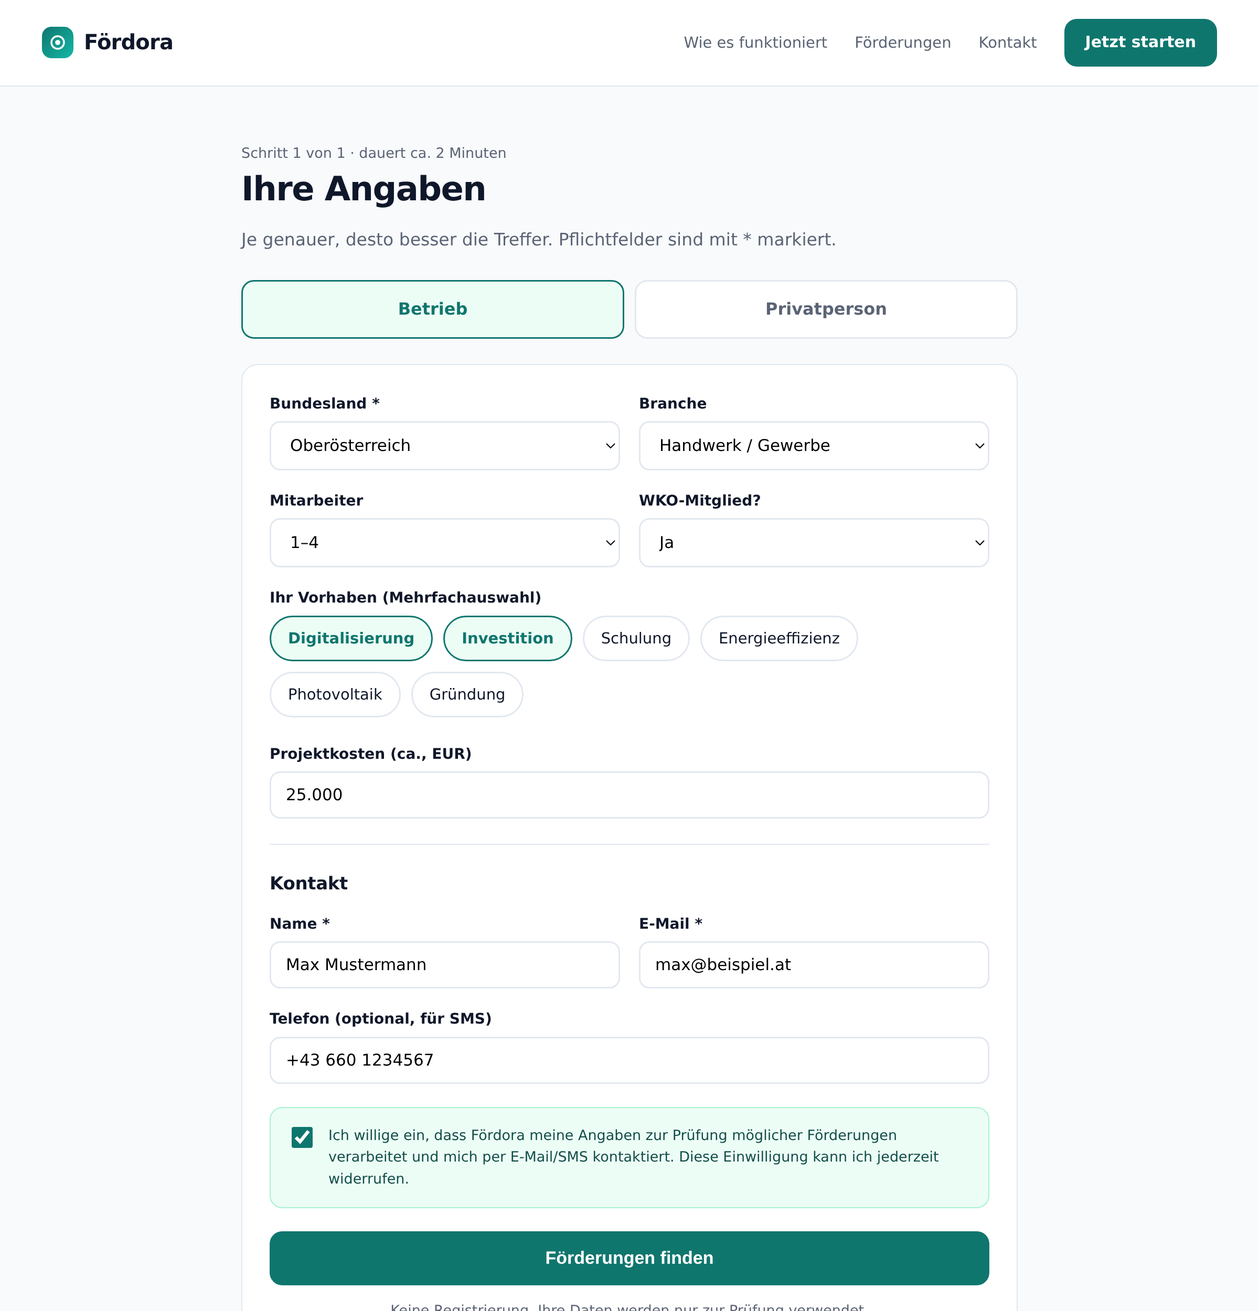
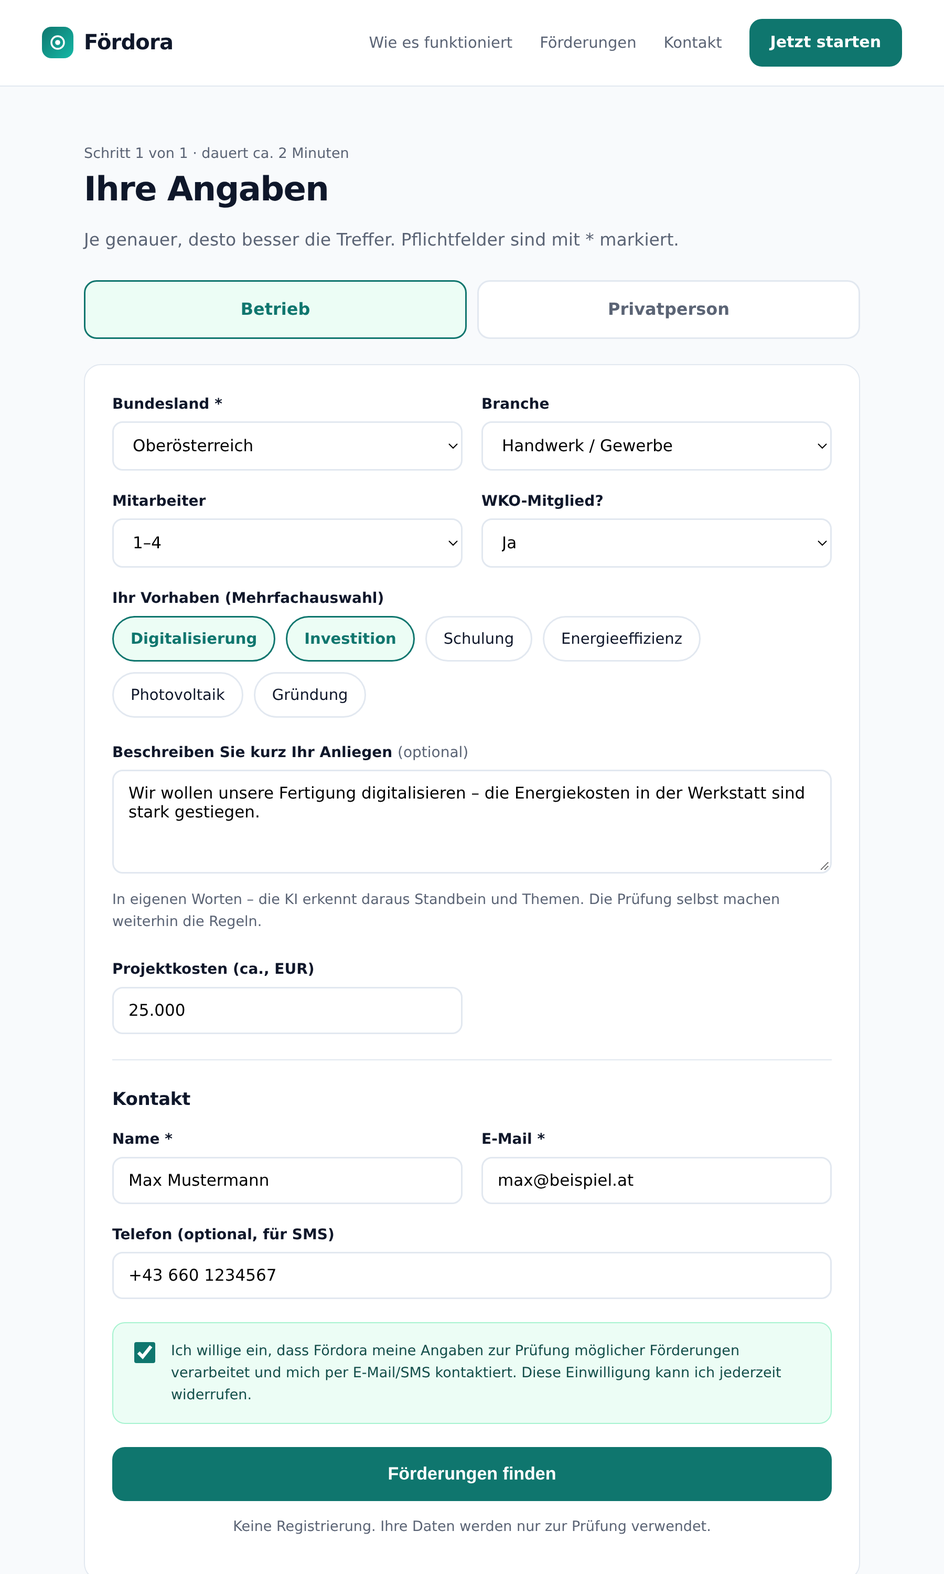
docs(design): Mockups fuer Standbein-/Thema-Achse
- build_mockup.py: Freitext-Feld (Anliegen) + Tab-Beispieltexte,
  textarea-Styling, Generator fuer das 3. Standbein "Sozial"
- mockup-formular.html/png: Anliegen-Textfeld + KI-Hinweis
- mockup-standbein.html/png: Entwurf thema-Achse (Badges statt eigener Spalte)
- mockup-start/danke.html: textarea-Styling nachgezogen

Reine Design-Artefakte (docs/design), keine Laufzeit-Auswirkung.

diff --git a/docs/design/mockup-standbein.html b/docs/design/mockup-standbein.html
@@ -1,4 +1,4 @@
-<!doctype html><meta charset="utf-8"><title>Fördora — Startseite</title><style>
+<!doctype html><meta charset="utf-8"><title>Fördora — Standbeine & Thema-Achse</title><style>
 :root{--p:#0f766e;--p2:#14b8a6;--p3:#ecfdf5;--ink:#0f172a;--mut:#5b6475;
       --bg:#f8fafc;--card:#fff;--line:#e2e8f0;--warn:#b45309}
 *{box-sizing:border-box}
@@ -70,16 +70,26 @@ input:focus,select:focus,textarea:focus{outline:0;border-color:var(--p2)}
 </style><header><div class="logo"><span class="mark"><svg width="17" height="17" viewBox="0 0 24 24" fill="none" stroke="#fff" stroke-width="2.4" stroke-linecap="round"><circle cx="12" cy="12" r="8.5"/><circle cx="12" cy="12" r="3.4" fill="#fff" stroke="none"/></svg></span>Fördora</div><nav>
 <a href="#">Wie es funktioniert</a><a href="#">Förderungen</a><a href="#">Kontakt</a>
 <a class="btn btn-p" style="padding:11px 20px;font-size:15px" href="#">Jetzt starten</a>
-</nav></header>
+</nav></header><style>
+.badge{display:inline-block;border:1px solid #a7f3d0;background:var(--p3);color:var(--p);
+  border-radius:999px;padding:3px 11px;font-size:12.5px;font-weight:650;margin-left:6px}
+.badge.neu{border-color:#fcd34d;background:#fffbeb;color:var(--warn)}
+.door{display:flex;gap:15px;align-items:flex-start}
+.door .ico{width:46px;height:46px;border-radius:13px;font-size:19px;display:grid;place-items:center;
+  background:var(--p3);color:var(--p);font-weight:700}
+.card.hl{border-color:var(--p);box-shadow:0 8px 26px rgba(15,118,110,.12)}
+.filters{display:flex;gap:10px;flex-wrap:wrap;margin:6px 0 22px}
+</style>
 <main class="wrap">
-  <section class="hero">
+  <section class="hero" style="padding-bottom:40px">
     <div class="eyebrow">✦ KI-gestützt · nur amtliche Quellen</div>
-    <h1>Finden Sie heraus, welche<br>Förderungen Ihnen zustehen.</h1>
-    <p class="lead">Fördora gleicht Ihr Profil automatisch mit allen Förderprogrammen
-       für Österreich ab – und meldet sich, sobald eine Frist naht.</p>
+    <h1>Förderungen und Unterstützung,<br>die zu Ihnen passen.</h1>
+    <p class="lead">Fördora gleicht Ihr Profil automatisch mit Förderungen und
+       Sozialangeboten für Österreich ab – und meldet sich, sobald eine Frist naht.</p>
     <div class="cta">
       <a class="btn btn-p" href="#">Für Betriebe</a>
       <a class="btn btn-o" href="#">Für Privatpersonen</a>
+      <a class="btn btn-o" href="#">Sozial &amp; Alltag</a>
     </div>
     <div class="trust">
       <span><b>✓</b> Kostenlos &amp; unverbindlich</span>
@@ -87,61 +97,62 @@ input:focus,select:focus,textarea:focus{outline:0;border-color:var(--p2)}
       <span><b>✓</b> Ohne Registrierung</span>
     </div>
   </section>
-  <section class="steps">
-    <div class="card"><div class="step-n">1</div><h2 style="font-size:19px">Angaben machen</h2>
-      <p class="small">In 2 Minuten: ein paar Eckdaten zu Ihrem Vorhaben. Kein Papierkram.</p></div>
-    <div class="card"><div class="step-n">2</div><h2 style="font-size:19px">Automatisch abgleichen</h2>
-      <p class="small">Wir prüfen Ihren Fall gegen alle aktuellen Programme – belegt aus den Originalquellen.</p></div>
-    <div class="card"><div class="step-n">3</div><h2 style="font-size:19px">Treffer erhalten</h2>
-      <p class="small">Sie bekommen die passenden Förderungen per E-Mail – und einen Hinweis, wenn eine Frist läuft.</p></div>
+
+  <h2 class="sec-title" style="margin-top:34px">Drei Standbeine, ein Radar</h2>
+  <p class="sec-sub">Jeder Bereich funktioniert nach demselben Prinzip – nur die
+     passenden Angebote unterscheiden sich.</p>
+  <section class="steps" style="padding-bottom:34px">
+    <div class="card"><div class="door"><div class="ico"><svg width="22" height="22" viewBox="0 0 24 24" fill="none" stroke="#0f766e" stroke-width="2" stroke-linecap="round" stroke-linejoin="round"><path d="M3 21h18M5 21V7l7-4 7 4v14"/><path d="M9 21v-6h6v6"/></svg></div><div>
+      <h2 style="font-size:19px">Betrieb &amp; Förderung</h2>
+      <p class="small">Digitalisierung, Investitionen, Energie, Gründung –
+      Wirtschaftsförderung für Unternehmen.</p></div></div></div>
+    <div class="card"><div class="door"><div class="ico"><svg width="22" height="22" viewBox="0 0 24 24" fill="none" stroke="#0f766e" stroke-width="2" stroke-linecap="round" stroke-linejoin="round"><path d="M3 11l9-8 9 8"/><path d="M5 10v11h14V10"/></svg></div><div>
+      <h2 style="font-size:19px">Privat &amp; Zuhause</h2>
+      <p class="small">Sanieren, Heizen, Photovoltaik, Handwerkerbonus –
+      Förderungen rund um Wohnen.</p></div></div></div>
+    <div class="card hl"><div class="door"><div class="ico"><svg width="22" height="22" viewBox="0 0 24 24" fill="none" stroke="#0f766e" stroke-width="2" stroke-linecap="round" stroke-linejoin="round"><circle cx="9" cy="8" r="3"/><path d="M2 21v-1a5 5 0 0 1 5-5h4a5 5 0 0 1 5 5v1"/><path d="M17 8h4M19 6v4"/></svg></div><div>
+      <h2 style="font-size:19px">Sozial &amp; Alltag <span class="badge neu">neu</span></h2>
+      <p class="small">Heizkostenzuschuss, Wohnbeihilfe, Pflege &amp;
+      Barrierefreiheit – Unterstützung für Menschen.</p></div></div></div>
   </section>
 
-  <h2 class="sec-title">Das macht Fördora anders</h2>
-  <p class="sec-sub">Andere Seiten sind Kataloge zum Selbst-Durchsuchen.
-     Fördora arbeitet für Sie – automatisch und nachvollziehbar.</p>
-  <section class="usp">
-    <div class="card"><div class="ico">
-      <svg width="20" height="20" viewBox="0 0 24 24" fill="none" stroke="#0f766e" stroke-width="2"
-        stroke-linecap="round" stroke-linejoin="round"><path d="M22 6 12 13 2 6"/>
-        <rect x="2" y="4" width="20" height="16" rx="2"/></svg></div>
-      <div><h2 style="font-size:19px">Push statt Suchen</h2>
-      <p class="small">Wir warten nicht, bis Sie suchen. Fördora meldet passende Treffer aktiv –
-      und erinnert, bevor eine Frist abläuft.</p></div></div>
+  <h2 class="sec-title" style="margin-top:8px">Filtern nach Thema</h2>
+  <p class="sec-sub">Ein Angebot kann mehreren Themen zugeordnet sein
+     (z.&nbsp;B. die Wohnbeihilfe ist <i>sozial</i> und <i>wohnen</i>).</p>
+  <div class="filters">
+    <span class="chip">wirtschaft</span><span class="chip on">sozial</span>
+    <span class="chip">energie</span><span class="chip">wohnen</span>
+    <span class="chip">bildung</span>
+  </div>
 
-    <div class="card"><div class="ico">
-      <svg width="20" height="20" viewBox="0 0 24 24" fill="none" stroke="#0f766e" stroke-width="2"
-        stroke-linecap="round" stroke-linejoin="round"><path d="M20 6 9 17l-5-5"/></svg></div>
-      <div><h2 style="font-size:19px">Nachweisbar, keine Blackbox</h2>
-      <p class="small">Jede Zusage kommt aus einer belegten Regel, nicht aus einer KI-Vermutung.
-      Wir zeigen, welche Bedingung erfüllt ist.</p></div></div>
-
-    <div class="card"><div class="ico">
-      <svg width="20" height="20" viewBox="0 0 24 24" fill="none" stroke="#0f766e" stroke-width="2"
-        stroke-linecap="round" stroke-linejoin="round"><path d="M12 22s8-4 8-10V5l-8-3-8 3v7c0 6 8 10 8 10z"/></svg></div>
-      <div><h2 style="font-size:19px">Datenschutz ohne Konto</h2>
-      <p class="small">Keine Registrierung, kein Passwort. Kontaktdaten bleiben getrennt
-      von der Auswertung – EU-Hosting.</p></div></div>
-
-    <div class="card"><div class="ico">
-      <svg width="20" height="20" viewBox="0 0 24 24" fill="none" stroke="#0f766e" stroke-width="2"
-        stroke-linecap="round" stroke-linejoin="round"><path d="M4 19.5V6a2 2 0 0 1 2-2h12v16H6a2 2 0 0 0-2 2z"/>
-        <path d="M8 8h8M8 12h6"/></svg></div>
-      <div><h2 style="font-size:19px">Nur geprüfte Quellen</h2>
-      <p class="small">Jede Förderung stammt aus amtlichen Originalquellen und ist verlinkt.
-      Keine Quelle, keine Aufnahme.</p></div></div>
-  </section>
+  <div class="card" style="margin-bottom:34px"><div style="display:flex;justify-content:space-between;
+       align-items:flex-start;gap:16px;flex-wrap:wrap">
+    <div><h2 style="font-size:19px;margin:0">Heizkostenzuschuss Oberösterreich</h2>
+      <p class="small" style="margin:6px 0 0">Zuschuss zu den Heizkosten für Haushalte
+      mit geringem Einkommen.</p></div>
+    <div><span class="badge">sozial</span><span class="badge">energie</span></div>
+  </div>
+  <p class="small" style="margin:14px 0 0">
+    <b style="color:var(--p)">bis 300 €</b> &nbsp;·&nbsp; Frist 31.10.2026
+    &nbsp;·&nbsp; Quelle: land-oberoesterreich.gv.at &nbsp;✓ amtlich</p></div>
 
   <section class="aibox">
     <div>
       <h2>Intelligenz, die nur beim Verstehen hilft.</h2>
-      <p>Unsere KI liest Förderrichtlinien, versteht Ihr Vorhaben in normaler Sprache und
-         formuliert die Treffer verständlich. Ob eine Förderung wirklich passt, entscheidet
-         jedoch eine nachvollziehbare Regel – nicht die KI. So bleibt jede Zusage überprüfbar.</p>
+      <p>Unsere KI liest Förderrichtlinien und versteht Ihr Vorhaben in normaler Sprache –
+         sie erkennt, welches Standbein und welche Themen passen. Ob eine Förderung
+         wirklich zutrifft, entscheidet jedoch eine nachvollziehbare Regel, nicht die KI.
+         So bleibt jede Zusage überprüfbar.</p>
       <div class="row">
         <div class="tag"><b>KI</b> versteht Ihre Angaben</div>
         <div class="tag"><b>Code</b> prüft die Bedingungen</div>
         <div class="tag">Jede Quelle <b>verlinkt</b></div>
       </div>
+      <p class="small" style="margin:16px 0 0;color:#94a3b8;font-size:13.5px">
+        Beispiel: „Ich pflege meine Mutter, die Heizkosten sind kaum leistbar“
+        → erkannt als <b style="color:#5eead4;font-weight:650">privat</b> ·
+        <b style="color:#5eead4;font-weight:650">sozial</b> ·
+        <b style="color:#5eead4;font-weight:650">energie</b></p>
     </div>
     <div class="flow">
       <div><span>1</span>KI versteht, was Sie vorhaben</div>

diff --git a/docs/design/mockup-formular.html b/docs/design/mockup-formular.html
@@ -31,9 +31,9 @@ h2{font-size:26px;margin:0 0 10px;letter-spacing:-.01em}
 footer{background:#fff;border-top:1px solid var(--line);padding:22px 40px;color:var(--mut);font-size:14px}
 footer a{color:var(--mut);text-decoration:none;margin-right:18px}
 label{display:block;font-size:14px;font-weight:600;margin:0 0 6px}
-input,select{width:100%;padding:12px 14px;border:1.5px solid var(--line);border-radius:10px;
+input,select,textarea{width:100%;padding:12px 14px;border:1.5px solid var(--line);border-radius:10px;
              font-size:15.5px;background:#fff;font-family:inherit}
-input:focus,select:focus{outline:0;border-color:var(--p2)}
+input:focus,select:focus,textarea:focus{outline:0;border-color:var(--p2)}
 .grid2{display:grid;grid-template-columns:1fr 1fr;gap:18px}
 .field{margin-bottom:18px}
 .tabs{display:flex;gap:10px;margin-bottom:24px}
@@ -77,7 +77,10 @@ input:focus,select:focus{outline:0;border-color:var(--p2)}
   <p class="lead" style="font-size:16.5px;margin-bottom:26px">Je genauer, desto besser die Treffer.
      Pflichtfelder sind mit * markiert.</p>
 
-  <div class="tabs"><div class="tab on">Betrieb</div><div class="tab">Privatperson</div></div>
+  <div class="tabs">
+    <div class="tab on" data-beispiel="Wir wollen unsere Fertigung digitalisieren – die Energiekosten in der Werkstatt sind stark gestiegen." onclick="waehle(this,'betrieb')">Betrieb</div>
+    <div class="tab" data-beispiel="Ich pflege meine Mutter, die Heizkosten sind kaum leistbar." onclick="waehle(this,'privat')">Privatperson</div>
+  </div>
 
   <div class="card">
     <div class="grid2">
@@ -103,8 +106,16 @@ input:focus,select:focus{outline:0;border-color:var(--p2)}
         <span class="chip">Photovoltaik</span><span class="chip">Gründung</span>
       </div></div>
 
-    <div class="field" style="margin-top:24px"><label>Projektkosten (ca., EUR)</label>
-      <input value="25.000"></div>
+    <div class="field" style="margin-top:22px">
+      <label>Beschreiben Sie kurz Ihr Anliegen <span style="color:var(--mut);font-weight:400">(optional)</span></label>
+      <textarea rows="4" id="anliegen" style="resize:vertical">Wir wollen unsere Fertigung digitalisieren – die Energiekosten in der Werkstatt sind stark gestiegen.</textarea>
+      <p class="small" style="margin:7px 0 0">In eigenen Worten – die KI erkennt daraus Standbein und Themen.
+         Die Prüfung selbst machen weiterhin die Regeln.</p></div>
+
+    <div class="grid2" style="margin-top:24px">
+      <div class="field" style="margin-bottom:0"><label>Projektkosten (ca., EUR)</label>
+        <input value="25.000"></div>
+    </div>
 
     <hr style="border:0;border-top:1px solid var(--line);margin:24px 0">
 
@@ -127,4 +138,11 @@ input:focus,select:focus{outline:0;border-color:var(--p2)}
       Prüfung verwendet.</p>
   </div>
   <div style="height:40px"></div>
-</main><footer><a href="#">Impressum</a><a href="#">Datenschutz</a><a href="#">Kontakt</a><span style="float:right">© 2026 Fördora</span></footer>
+</main>
+<script>
+function waehle(el){
+  document.querySelectorAll('.tab').forEach(function(t){t.classList.remove('on');});
+  el.classList.add('on');
+  document.getElementById('anliegen').value = el.dataset.beispiel;
+}
+</script><footer><a href="#">Impressum</a><a href="#">Datenschutz</a><a href="#">Kontakt</a><span style="float:right">© 2026 Fördora</span></footer>

diff --git a/docs/design/mockup-danke.html b/docs/design/mockup-danke.html
@@ -31,9 +31,9 @@ h2{font-size:26px;margin:0 0 10px;letter-spacing:-.01em}
 footer{background:#fff;border-top:1px solid var(--line);padding:22px 40px;color:var(--mut);font-size:14px}
 footer a{color:var(--mut);text-decoration:none;margin-right:18px}
 label{display:block;font-size:14px;font-weight:600;margin:0 0 6px}
-input,select{width:100%;padding:12px 14px;border:1.5px solid var(--line);border-radius:10px;
+input,select,textarea{width:100%;padding:12px 14px;border:1.5px solid var(--line);border-radius:10px;
              font-size:15.5px;background:#fff;font-family:inherit}
-input:focus,select:focus{outline:0;border-color:var(--p2)}
+input:focus,select:focus,textarea:focus{outline:0;border-color:var(--p2)}
 .grid2{display:grid;grid-template-columns:1fr 1fr;gap:18px}
 .field{margin-bottom:18px}
 .tabs{display:flex;gap:10px;margin-bottom:24px}

diff --git a/docs/design/build_mockup.py b/docs/design/build_mockup.py
@@ -37,9 +37,9 @@ h2{font-size:26px;margin:0 0 10px;letter-spacing:-.01em}
 footer{background:#fff;border-top:1px solid var(--line);padding:22px 40px;color:var(--mut);font-size:14px}
 footer a{color:var(--mut);text-decoration:none;margin-right:18px}
 label{display:block;font-size:14px;font-weight:600;margin:0 0 6px}
-input,select{width:100%;padding:12px 14px;border:1.5px solid var(--line);border-radius:10px;
+input,select,textarea{width:100%;padding:12px 14px;border:1.5px solid var(--line);border-radius:10px;
              font-size:15.5px;background:#fff;font-family:inherit}
-input:focus,select:focus{outline:0;border-color:var(--p2)}
+input:focus,select:focus,textarea:focus{outline:0;border-color:var(--p2)}
 .grid2{display:grid;grid-template-columns:1fr 1fr;gap:18px}
 .field{margin-bottom:18px}
 .tabs{display:flex;gap:10px;margin-bottom:24px}
@@ -184,7 +184,10 @@ formular = screen("Fördora — Angaben", HEAD + f"""
   <p class="lead" style="font-size:16.5px;margin-bottom:26px">Je genauer, desto besser die Treffer.
      Pflichtfelder sind mit * markiert.</p>
 
-  <div class="tabs"><div class="tab on">Betrieb</div><div class="tab">Privatperson</div></div>
+  <div class="tabs">
+    <div class="tab on" data-beispiel="Wir wollen unsere Fertigung digitalisieren – die Energiekosten in der Werkstatt sind stark gestiegen." onclick="waehle(this,'betrieb')">Betrieb</div>
+    <div class="tab" data-beispiel="Ich pflege meine Mutter, die Heizkosten sind kaum leistbar." onclick="waehle(this,'privat')">Privatperson</div>
+  </div>
 
   <div class="card">
     <div class="grid2">
@@ -210,8 +213,16 @@ formular = screen("Fördora — Angaben", HEAD + f"""
         <span class="chip">Photovoltaik</span><span class="chip">Gründung</span>
       </div></div>
 
-    <div class="field" style="margin-top:24px"><label>Projektkosten (ca., EUR)</label>
-      <input value="25.000"></div>
+    <div class="field" style="margin-top:22px">
+      <label>Beschreiben Sie kurz Ihr Anliegen <span style="color:var(--mut);font-weight:400">(optional)</span></label>
+      <textarea rows="4" id="anliegen" style="resize:vertical">Wir wollen unsere Fertigung digitalisieren – die Energiekosten in der Werkstatt sind stark gestiegen.</textarea>
+      <p class="small" style="margin:7px 0 0">In eigenen Worten – die KI erkennt daraus Standbein und Themen.
+         Die Prüfung selbst machen weiterhin die Regeln.</p></div>
+
+    <div class="grid2" style="margin-top:24px">
+      <div class="field" style="margin-bottom:0"><label>Projektkosten (ca., EUR)</label>
+        <input value="25.000"></div>
+    </div>
 
     <hr style="border:0;border-top:1px solid var(--line);margin:24px 0">
 
@@ -234,7 +245,14 @@ formular = screen("Fördora — Angaben", HEAD + f"""
       Prüfung verwendet.</p>
   </div>
   <div style="height:40px"></div>
-</main>""" + FOOT)
+</main>
+<script>
+function waehle(el){{
+  document.querySelectorAll('.tab').forEach(function(t){{t.classList.remove('on');}});
+  el.classList.add('on');
+  document.getElementById('anliegen').value = el.dataset.beispiel;
+}}
+</script>""" + FOOT)
 
 # ---------------------------------------------------------------- Danke
 danke = screen("Fördora — Danke", HEAD + """
@@ -264,6 +282,104 @@ danke = screen("Fördora — Danke", HEAD + """
   </div>
 </main>""" + FOOT)
 
-for name, html in (("mockup-start", start), ("mockup-formular", formular), ("mockup-danke", danke)):
+# ------------------------------------------------- Entwurf: 3. Standbein "Sozial"
+# Zeigt die vorgeschlagene thema-Achse: die drei Standbeine sind nur Tueren,
+# datenseitig ist "Sozial" = zielgruppe=privat + thema=sozial. Ein Eintrag kann
+# mehrere Themen tragen (mehrwertige Liste) -> deshalb sind es Badges, keine Spalte.
+EXTRA_CSS = """
+.badge{display:inline-block;border:1px solid #a7f3d0;background:var(--p3);color:var(--p);
+  border-radius:999px;padding:3px 11px;font-size:12.5px;font-weight:650;margin-left:6px}
+.badge.neu{border-color:#fcd34d;background:#fffbeb;color:var(--warn)}
+.door{display:flex;gap:15px;align-items:flex-start}
+.door .ico{width:46px;height:46px;border-radius:13px;font-size:19px;display:grid;place-items:center;
+  background:var(--p3);color:var(--p);font-weight:700}
+.card.hl{border-color:var(--p);box-shadow:0 8px 26px rgba(15,118,110,.12)}
+.filters{display:flex;gap:10px;flex-wrap:wrap;margin:6px 0 22px}
+"""
+standbein = screen("Fördora — Standbeine & Thema-Achse", HEAD + f"<style>{EXTRA_CSS}</style>" + """
+<main class="wrap">
+  <section class="hero" style="padding-bottom:40px">
+    <div class="eyebrow">✦ KI-gestützt · nur amtliche Quellen</div>
+    <h1>Förderungen und Unterstützung,<br>die zu Ihnen passen.</h1>
+    <p class="lead">Fördora gleicht Ihr Profil automatisch mit Förderungen und
+       Sozialangeboten für Österreich ab – und meldet sich, sobald eine Frist naht.</p>
+    <div class="cta">
+      <a class="btn btn-p" href="#">Für Betriebe</a>
+      <a class="btn btn-o" href="#">Für Privatpersonen</a>
+      <a class="btn btn-o" href="#">Sozial &amp; Alltag</a>
+    </div>
+    <div class="trust">
+      <span><b>✓</b> Kostenlos &amp; unverbindlich</span>
+      <span><b>✓</b> Nur amtliche Quellen</span>
+      <span><b>✓</b> Ohne Registrierung</span>
+    </div>
+  </section>
+
+  <h2 class="sec-title" style="margin-top:34px">Drei Standbeine, ein Radar</h2>
+  <p class="sec-sub">Jeder Bereich funktioniert nach demselben Prinzip – nur die
+     passenden Angebote unterscheiden sich.</p>
+  <section class="steps" style="padding-bottom:34px">
+    <div class="card"><div class="door"><div class="ico"><svg width="22" height="22" viewBox="0 0 24 24" fill="none" stroke="#0f766e" stroke-width="2" stroke-linecap="round" stroke-linejoin="round"><path d="M3 21h18M5 21V7l7-4 7 4v14"/><path d="M9 21v-6h6v6"/></svg></div><div>
+      <h2 style="font-size:19px">Betrieb &amp; Förderung</h2>
+      <p class="small">Digitalisierung, Investitionen, Energie, Gründung –
+      Wirtschaftsförderung für Unternehmen.</p></div></div></div>
+    <div class="card"><div class="door"><div class="ico"><svg width="22" height="22" viewBox="0 0 24 24" fill="none" stroke="#0f766e" stroke-width="2" stroke-linecap="round" stroke-linejoin="round"><path d="M3 11l9-8 9 8"/><path d="M5 10v11h14V10"/></svg></div><div>
+      <h2 style="font-size:19px">Privat &amp; Zuhause</h2>
+      <p class="small">Sanieren, Heizen, Photovoltaik, Handwerkerbonus –
+      Förderungen rund um Wohnen.</p></div></div></div>
+    <div class="card hl"><div class="door"><div class="ico"><svg width="22" height="22" viewBox="0 0 24 24" fill="none" stroke="#0f766e" stroke-width="2" stroke-linecap="round" stroke-linejoin="round"><circle cx="9" cy="8" r="3"/><path d="M2 21v-1a5 5 0 0 1 5-5h4a5 5 0 0 1 5 5v1"/><path d="M17 8h4M19 6v4"/></svg></div><div>
+      <h2 style="font-size:19px">Sozial &amp; Alltag <span class="badge neu">neu</span></h2>
+      <p class="small">Heizkostenzuschuss, Wohnbeihilfe, Pflege &amp;
+      Barrierefreiheit – Unterstützung für Menschen.</p></div></div></div>
+  </section>
+
+  <h2 class="sec-title" style="margin-top:8px">Filtern nach Thema</h2>
+  <p class="sec-sub">Ein Angebot kann mehreren Themen zugeordnet sein
+     (z.&nbsp;B. die Wohnbeihilfe ist <i>sozial</i> und <i>wohnen</i>).</p>
+  <div class="filters">
+    <span class="chip">wirtschaft</span><span class="chip on">sozial</span>
+    <span class="chip">energie</span><span class="chip">wohnen</span>
+    <span class="chip">bildung</span>
+  </div>
+
+  <div class="card" style="margin-bottom:34px"><div style="display:flex;justify-content:space-between;
+       align-items:flex-start;gap:16px;flex-wrap:wrap">
+    <div><h2 style="font-size:19px;margin:0">Heizkostenzuschuss Oberösterreich</h2>
+      <p class="small" style="margin:6px 0 0">Zuschuss zu den Heizkosten für Haushalte
+      mit geringem Einkommen.</p></div>
+    <div><span class="badge">sozial</span><span class="badge">energie</span></div>
+  </div>
+  <p class="small" style="margin:14px 0 0">
+    <b style="color:var(--p)">bis 300 €</b> &nbsp;·&nbsp; Frist 31.10.2026
+    &nbsp;·&nbsp; Quelle: land-oberoesterreich.gv.at &nbsp;✓ amtlich</p></div>
+
+  <section class="aibox">
+    <div>
+      <h2>Intelligenz, die nur beim Verstehen hilft.</h2>
+      <p>Unsere KI liest Förderrichtlinien und versteht Ihr Vorhaben in normaler Sprache –
+         sie erkennt, welches Standbein und welche Themen passen. Ob eine Förderung
+         wirklich zutrifft, entscheidet jedoch eine nachvollziehbare Regel, nicht die KI.
+         So bleibt jede Zusage überprüfbar.</p>
+      <div class="row">
+        <div class="tag"><b>KI</b> versteht Ihre Angaben</div>
+        <div class="tag"><b>Code</b> prüft die Bedingungen</div>
+        <div class="tag">Jede Quelle <b>verlinkt</b></div>
+      </div>
+      <p class="small" style="margin:16px 0 0;color:#94a3b8;font-size:13.5px">
+        Beispiel: „Ich pflege meine Mutter, die Heizkosten sind kaum leistbar“
+        → erkannt als <b style="color:#5eead4;font-weight:650">privat</b> ·
+        <b style="color:#5eead4;font-weight:650">sozial</b> ·
+        <b style="color:#5eead4;font-weight:650">energie</b></p>
+    </div>
+    <div class="flow">
+      <div><span>1</span>KI versteht, was Sie vorhaben</div>
+      <div><span>2</span>Regeln prüfen jede Förderung</div>
+      <div><span>3</span>Sie erhalten Treffer – mit Quelle</div>
+    </div>
+  </section>
+</main>""" + FOOT)
+
+for name, html in (("mockup-start", start), ("mockup-formular", formular),
+                   ("mockup-danke", danke), ("mockup-standbein", standbein)):
     (BASE / f"{name}.html").write_text(html, encoding="utf-8")
     print(f"{name}.html geschrieben")
